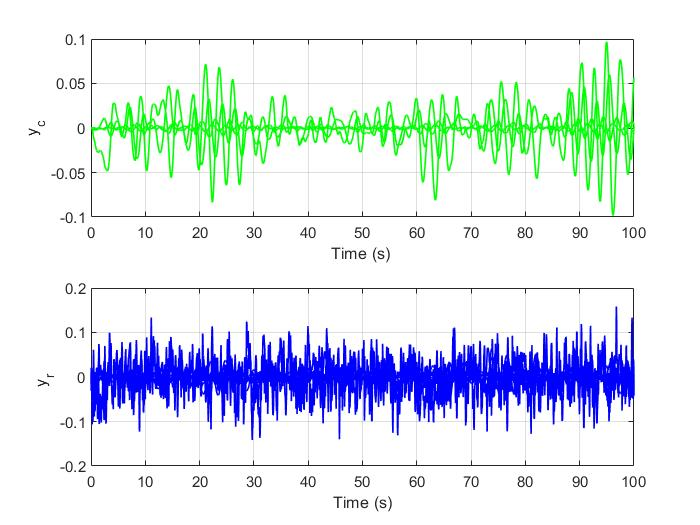
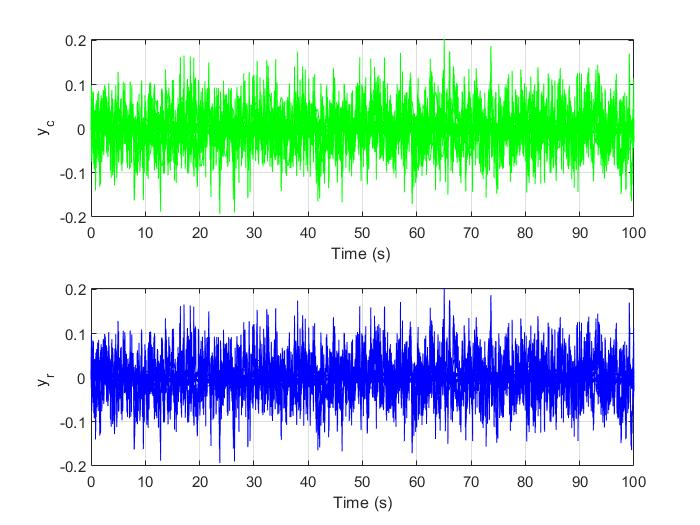
edit

diff --git a/Ch_2_time_response.m b/Ch_2_time_response.m
@@ -1,4 +1,4 @@
-dt = 0.005; T  = 60; 
+dt = 0.005; T  = 100; 
 t = [0:dt:T]; N = length(t);
 nn = zeros(1,N);
 
@@ -45,40 +45,40 @@ a_y_r = V*(ytr(:,1)+(2*V/b) *xtr(:,2));
 % PLOT RESULTS
 figure(1)
 subplot(2,1,1);
-plot(t,yt(:,1),'g','LineWidth',1)
+plot(t,yt(:,1),'g')
 xlabel('Time (s) ')
 ylabel('\beta_c (rad/s)')
 grid on
 subplot(2,1,2); 
-plot(t,ytr(:,1),'b','LineWidth',1)
+plot(t,ytr(:,1),'b')
 xlabel('Time (s)')
 ylabel('\beta_r (rad/s')
 grid on
 
 figure(2)
 subplot(2,1,1);
-plot(t,yt(:,4),'g','LineWidth',1)
+plot(t,yt(:,4),'g')
 xlabel('Time (s) ')
 ylabel('rb/2V_c (rad/s)')
 grid on
 subplot(2,1,2); 
-plot(t,ytr(:,2),'b','LineWidth',1)
+plot(t,ytr(:,2),'b')
 xlabel('Time (s)')
 ylabel('rb/2V_r (rad/s)')
 grid on
 figure(3)
 subplot(2,1,1);
-plot(t,yt(:,2),'g','LineWidth',1)
+plot(t,yt(:,2),'g')
 xlabel('Time (s) ')
 ylabel('\phi (rad/s)')
 grid on
 subplot(2,1,2); 
-plot(t,yt(:,3),'b','LineWidth',1)
+plot(t,yt(:,3),'b')
 xlabel('Time (s)')
 ylabel('pb/2V (rad/s)')
 grid on
 figure(4)
-plot(t,a_y,'g','LineWidth',1)
+plot(t,a_y,'g')
 xlabel('Time (s) ')
 ylabel('a_y_c (m/s)')
 grid on
@@ -89,12 +89,12 @@ grid on
 % grid on
 figure(5)
 subplot(2,1,1);
-plot(t,yt,'g','LineWidth',1)
+plot(t,yt,'g')
 xlabel('Time (s) ')
 ylabel('y_c')
 grid on
 subplot(2,1,2); 
-plot(t,ytr,'b','LineWidth',1)
+plot(t,ytr,'b')
 xlabel('Time (s)')
 ylabel('y_r ')
 grid on
